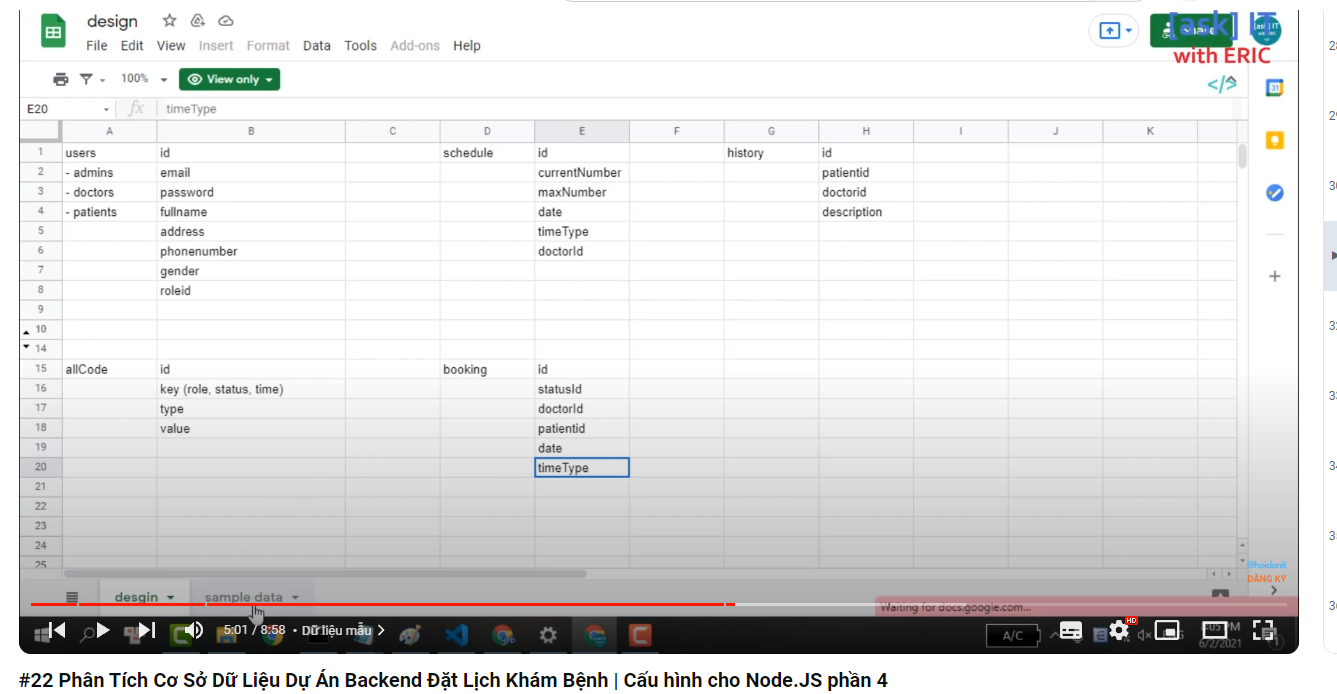
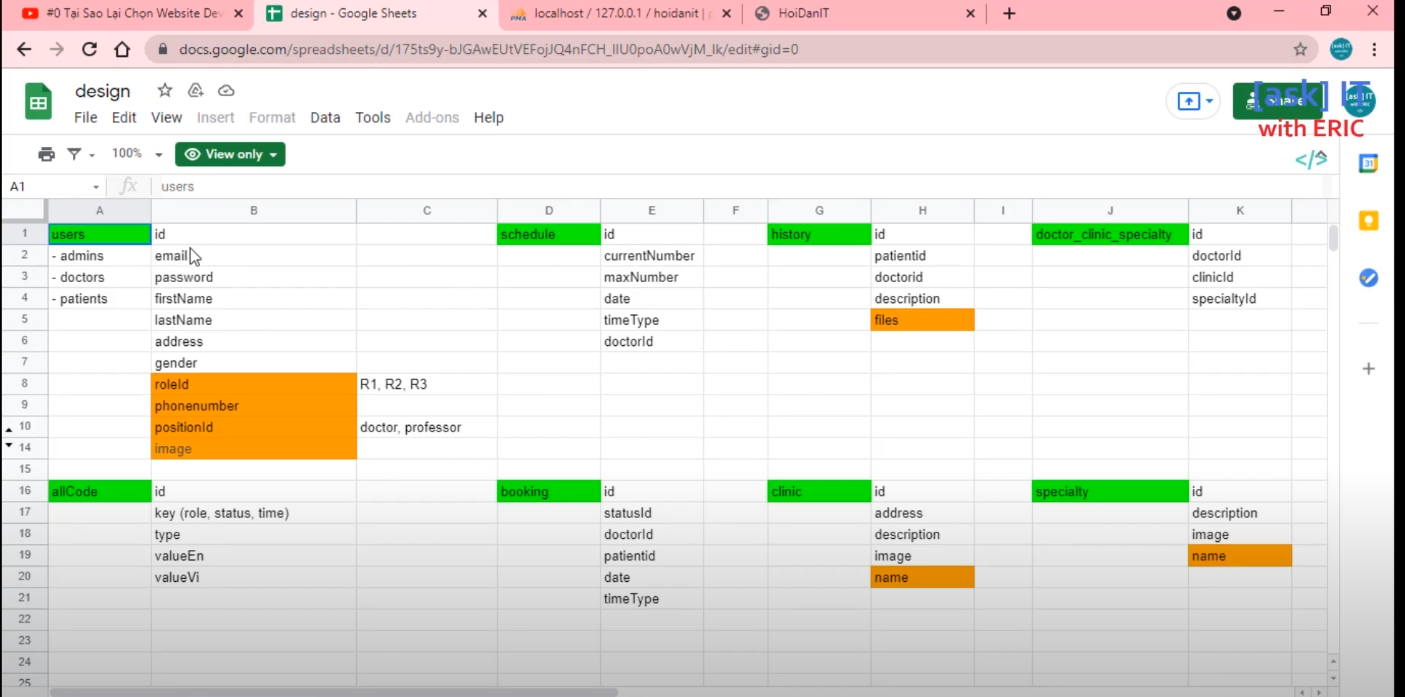
trieu

diff --git a/src/seeders/20240910070121-demo-user.js b/src/seeders/20240910070121-demo-user.js
@@ -19,21 +19,42 @@ module.exports = {
       {
       email: 'dinhlequangtrieu@gmail.com',
       password: '123456',
-      username: 'John Doe',
+      firstName: 'John ',
+      lastName: 'Doe',
+      address: 'abc',
+      gender: 1,
+      image: '----------',
+      roleId: 'R1',
+      phonenumber: '0123456789',
+      positionId: 'abcdefgh',
       createdAt: new Date(),
       updatedAt: new Date()
      },
      {
       email: 'dinhlequangtrieu1@gmail.com',
       password: '123456',
-      username: 'John Doe',
+      firstName: 'John1 ',
+      lastName: 'Doe1',
+      address: 'abc1',
+      gender: 1,
+      image: '----------',
+      roleId: 'R1',
+      phonenumber: '0123456789',
+      positionId: 'abcdefgh',
       createdAt: new Date(),
       updatedAt: new Date()
      },
      {
       email: 'dinhlequangtrieu2@gmail.com',
       password: '123456',
-      username: 'John Doe',
+      firstName: 'John2 ',
+      lastName: 'Doe2',
+      address: 'abc2',
+      gender: 1,
+      image: '----------',
+      roleId: 'R1',
+      phonenumber: '0123456789',
+      positionId: 'abcdefgh',
       createdAt: new Date(),
       updatedAt: new Date()
      }

diff --git a/src/Routers/machines.js b/src/Routers/machines.js
@@ -1,7 +1,7 @@
 const express = require('express');
 var router = express.Router();
 
-const {getHomepage, getAbc, postCreateuser, getCreatePage, getUpdatePage, postUpdateuser,postDeleteuser,postRemoveuser} = require('../controllers/homeController');
+const {getHomepage, getAbc, postCreateuser, getCreatePage, getUpdatePage, postUpdateuser,postDeleteuser,postRemoveuser, getCRUD, postCRUD} = require('../controllers/homeController');
 
 router.get('/', getHomepage);
 
@@ -10,6 +10,9 @@ router.get('/abc', getAbc);
 router.get('/create', getCreatePage);
 
 router.get('/update/:id', getUpdatePage);
+
+router.get('/crud', getCRUD);
+router.post('/post-crud', postCRUD);
 
 router.get('/login', (req,res) => {
 res.render("login")

diff --git a/src/migrations/20240910063228-create-user.js b/src/migrations/20240910063228-create-user.js
@@ -12,6 +12,9 @@ module.exports = {
       email: {
         type: Sequelize.STRING
       },
+      password: {
+        type: Sequelize.STRING
+      },
       firstName: {
         type: Sequelize.STRING
       },
@@ -24,7 +27,16 @@ module.exports = {
       gender: {
         type: Sequelize.BOOLEAN
       },
-      roleid: {
+      image: {
+        type: Sequelize.STRING
+      },
+      roleId: {
+        type: Sequelize.STRING
+      },
+      phonenumber: {
+        type: Sequelize.STRING
+      },
+      positionId: {
         type: Sequelize.STRING
       },
       createdAt: {

diff --git a/src/controllers/homeController.js b/src/controllers/homeController.js
@@ -91,6 +91,15 @@ const getUpdatePage = async(req, res) => {
     res.render('edit.ejs', {userEdit : user})
 }
 
+let getCRUD = (req, res) => {
+    return res.render('crud.ejs');
+}
+
+let postCRUD = (req, res) => {
+    console.log(req.body);
+    return res.send('post crud from server');
+}
+
 const postUpdateuser = async (req, res) => {
     let email = req.body.email;
     let name = req.body.name;
@@ -124,5 +133,7 @@ module.exports = {
     getUpdatePage,
     postUpdateuser,
     postDeleteuser,
-    postRemoveuser
+    postRemoveuser,
+    getCRUD,
+    postCRUD
 }

diff --git a/src/models/user.js b/src/models/user.js
@@ -14,12 +14,16 @@ module.exports = (sequelize, DataTypes) => {
     }
   }
   User.init({
+        email: DataTypes.STRING,
+        password: DataTypes.STRING,
         firstName: DataTypes.STRING,
         lastName: DataTypes.STRING,
-        email: DataTypes.STRING,
         address: DataTypes.STRING,
         gender: DataTypes.BOOLEAN,
-        roleid: DataTypes.STRING
+        image: DataTypes.STRING,
+        roleId: DataTypes.STRING,
+        phonenumber: DataTypes.STRING,
+        positionId: DataTypes.STRING
   }, {
     sequelize,
     modelName: 'User',

diff --git a/src/models/history.js b/src/models/history.js
@@ -16,7 +16,8 @@ module.exports = (sequelize, DataTypes) => {
   History.init({
     patientId: DataTypes.INTEGER,
     doctorId: DataTypes.INTEGER,
-    description: DataTypes.TEXT
+    description: DataTypes.TEXT,
+    files: DataTypes.TEXT
   }, {
     sequelize,
     modelName: 'History',

diff --git a/src/migrations/20240911071424-create-history.js b/src/migrations/20240911071424-create-history.js
@@ -18,6 +18,9 @@ module.exports = {
       description: {
         type: Sequelize.TEXT
       },
+      files: {
+        type: Sequelize.TEXT
+      },
       createdAt: {
         allowNull: false,
         type: Sequelize.DATE

diff --git a/src/migrations/20240911075125-create-speciality.js b/src/migrations/20240911075125-create-speciality.js
@@ -9,6 +9,9 @@ module.exports = {
         primaryKey: true,
         type: Sequelize.INTEGER
       },
+      name: {
+        type: Sequelize.STRING
+      },
       description: {
         type: Sequelize.TEXT
       },

diff --git a/src/migrations/20240911073245-create-clinic.js b/src/migrations/20240911073245-create-clinic.js
@@ -9,6 +9,9 @@ module.exports = {
         primaryKey: true,
         type: Sequelize.INTEGER
       },
+      name: {
+        type: Sequelize.STRING
+      },
       address: {
         type: Sequelize.STRING
       },

diff --git a/src/models/clinic.js b/src/models/clinic.js
@@ -14,6 +14,7 @@ module.exports = (sequelize, DataTypes) => {
     }
   }
   Clinic.init({
+    name: DataTypes.STRING,
     address: DataTypes.STRING,
     description: DataTypes.TEXT,
     image: DataTypes.STRING

diff --git a/src/models/speciality.js b/src/models/speciality.js
@@ -14,6 +14,7 @@ module.exports = (sequelize, DataTypes) => {
     }
   }
   Speciality.init({
+    name: DataTypes.STRING,
     description: DataTypes.TEXT,
     image: DataTypes.STRING
   }, {
